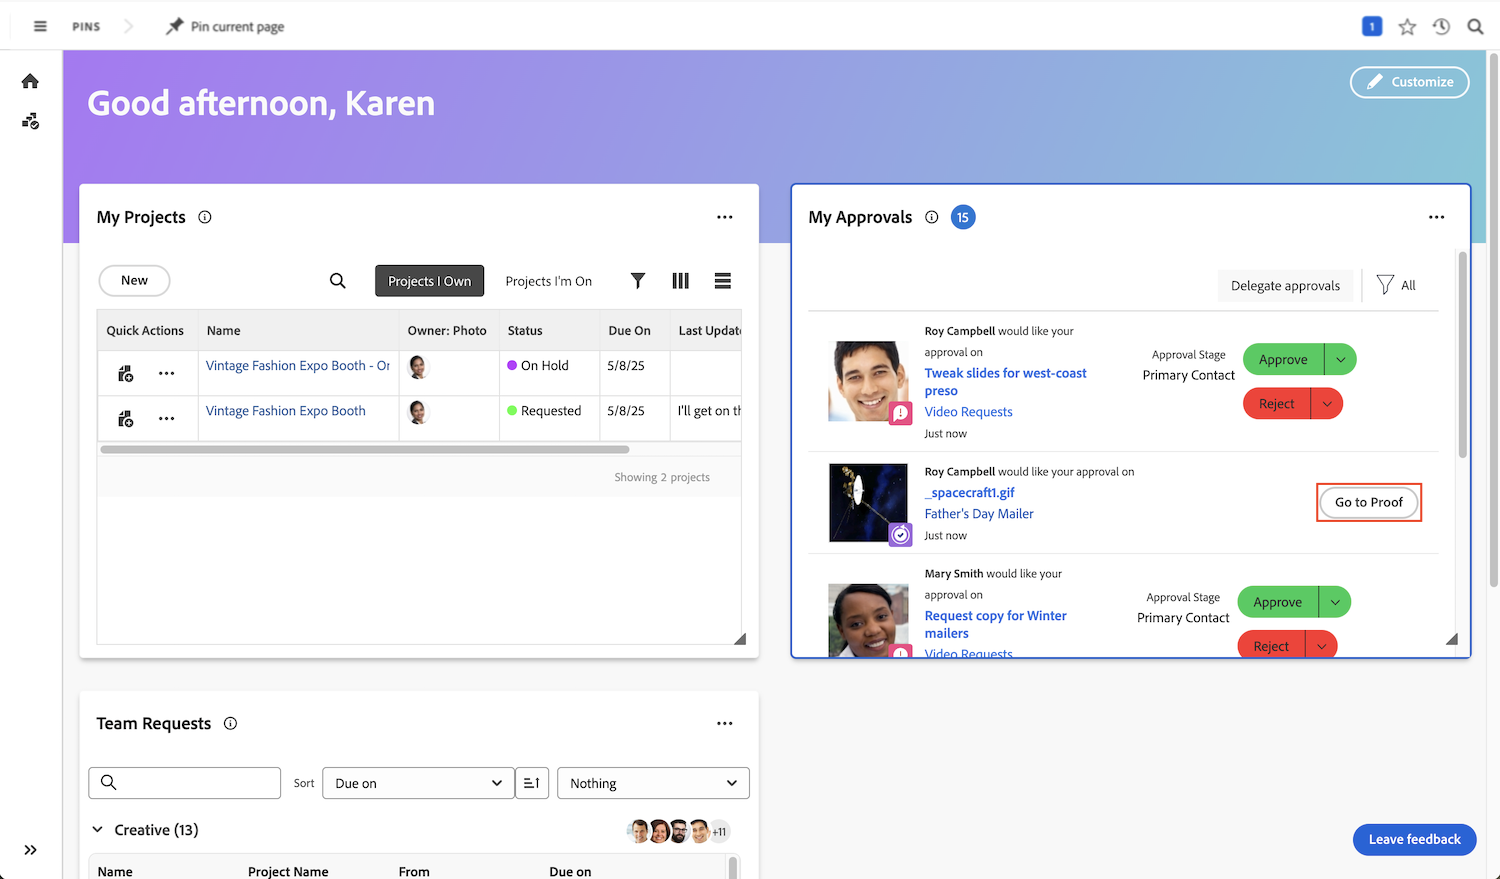
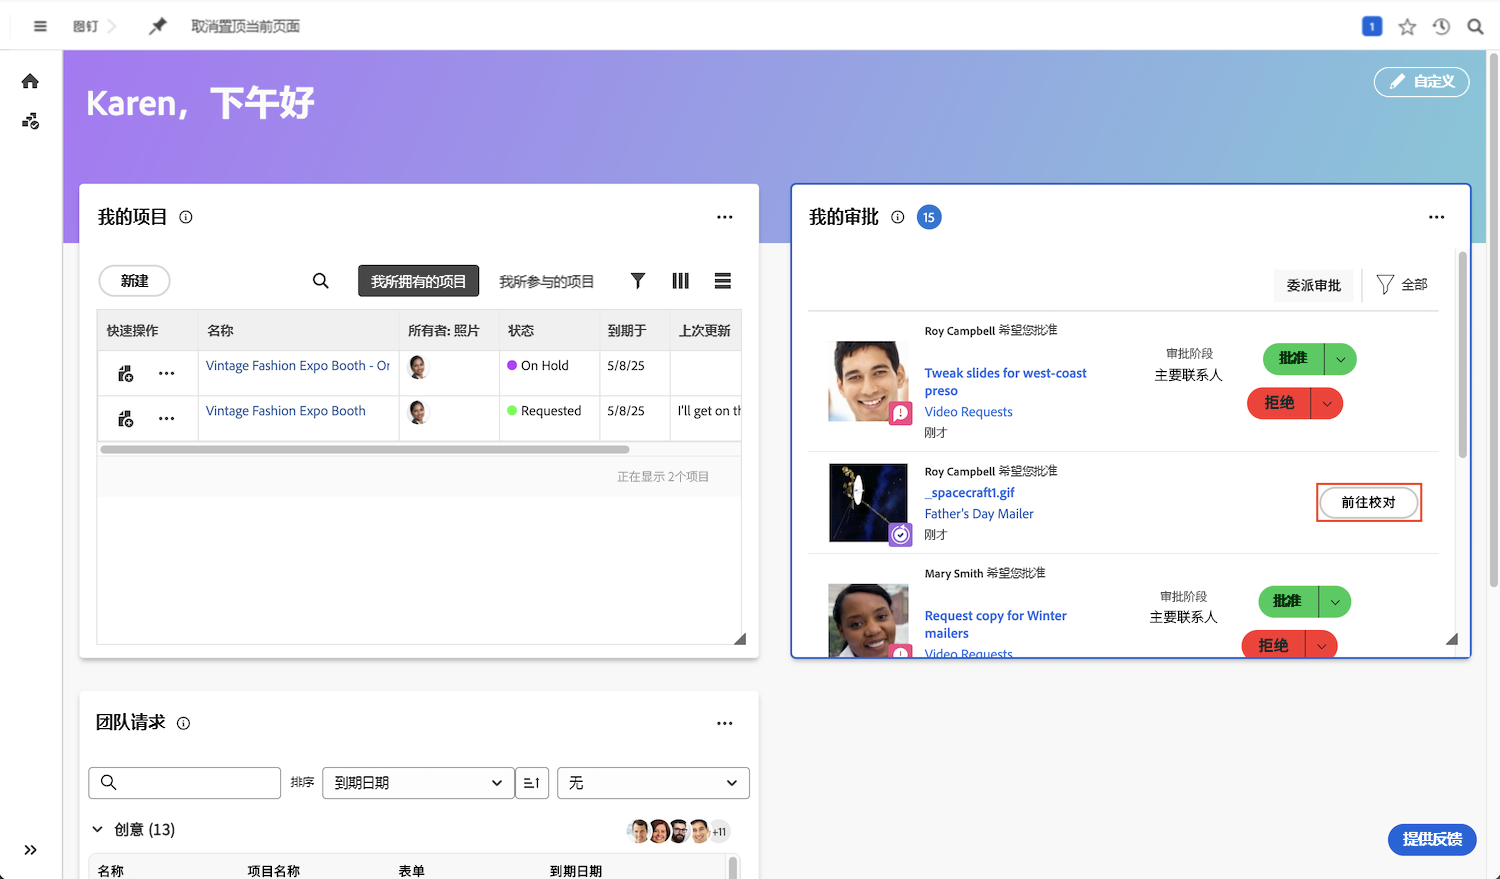
Updated by task 'AUTO_HANDOFF_1740431768113'  Changes for core/source commit https://git.corp.adobe.com/AdobeDocs/workfront-learn.en/commit/a64a8cd80e912f54fecae267fc94d3190d9fb85c

diff --git a/help/workfront-proof/review-and-approve-work/review-and-approve-a-proof.md b/help/workfront-proof/review-and-approve-work/review-and-approve-a-proof.md
@@ -12,9 +12,9 @@ jira: KT-8841
 exl-id: fd6e008c-a162-49fa-9f7e-ab7333165dad
 doc-type: video
 source-git-commit: 697957807d4ca95bb4e5ab79f24f5e31252585c3
-workflow-type: tm+mt
+workflow-type: ht
 source-wordcount: '701'
-ht-degree: 92%
+ht-degree: 100%
 
 ---
 
@@ -47,13 +47,13 @@ ht-degree: 92%
 
 ### 从 [!UICONTROL Home] 中打开验证
 
-如果您在[!DNL Workfront]中工作，并且被要求审批验证，您将在[!DNL Workfront] [!UICONTROL Home]的[!UICONTROL My Approvals]构件中找到分配。
+如果您使用 [!DNL Workfront]，并被要求审批验证，您会在 [!DNL Workfront] [!UICONTROL Home] 的 [!UICONTROL My Approvals] 中找到一项任务。
 
-![[!DNL Workfront] [!UICONTROL Home].](assets/open-proof-from-home.png)中的[!UICONTROL My Approvals]小部件的图像
+![[!UICONTROL My Approvals] 小组件的图像，位于 [!DNL Workfront] [!UICONTROL Home]。](assets/open-proof-from-home.png)
 
-值得注意的是，只有当分配您审批验证时，它才会显示在 [!DNL Workfront][!UICONTROL Home] 中。如果您刚刚被要求仅查看校样，它不会在[!DNL Workfront] [!UICONTROL Home]中显示。
+值得注意的是，只有当分配您审批验证时，它才会显示在 [!DNL Workfront][!UICONTROL Home] 中。如果您只是被要求审批验证，它不会显示在 [!DNL Workfront] [!UICONTROL Home]。
 
-单击[!UICONTROL Go to Proof]链接以将其打开到验证查看器中。
+单击 [!UICONTROL Go to Proof] 链接，将其在验证查看器中打开。
 
 根据您组织的验证和项目工作流，您可能会在 [!DNL Workfront] [!UICONTROL Home] 中看到任务分配，而不是验证审批请求。在这种情况下，您会从任务本身的 [!UICONTROL Documents] 部分打开验证（请参阅下面的说明）。
 

diff --git a/help/portfolios-and-programs/prioritize-and-manage-work-with-portfolios.md b/help/portfolios-and-programs/prioritize-and-manage-work-with-portfolios.md
@@ -1,6 +1,6 @@
 ---
-title: 使用 [!UICONTROL Portfolio Optimizer] 确定工作的优先顺序并对其进行管理
-description: 了解如何使用[!UICONTROL Portfolio Optimizer]比较项目组合中的项目并确定其优先级。
+title: 使用 [!UICONTROL Portfolio Optimizer] 确定工作的优先级并对其进行管理
+description: 了解如何使用 [!UICONTROL Portfolio Optimizer] 对项目组合中的项目进行比较和优先排序。
 activity: use
 team: Technical Marketing
 feature: Strategic Planning
@@ -13,19 +13,19 @@ role: User
 level: Intermediate
 exl-id: b8b91ae8-f0e1-4cab-bf2c-6b8ca9746ea3
 source-git-commit: adb11deb325b2537dabeb80461f8c9ecd059e003
-workflow-type: tm+mt
+workflow-type: ht
 source-wordcount: '65'
-ht-degree: 47%
+ht-degree: 100%
 
 ---
 
-# 使用 [!UICONTROL Portfolio Optimizer] 确定工作的优先顺序并对其进行管理
+# 使用 [!UICONTROL Portfolio Optimizer] 确定工作的优先级并对其进行管理
 
-在本视频中，您将了解到如何：
+在本视频中，您将学习如何：
 
-* 提交业务案例以供审批和优先处理
-* 使用[!UICONTROL Portfolio Optimizer]优化优先顺序
-* 设置和查看项目中的项目组合优先级字段
+* 提交业务案例以供审批并确定优先级
+* 使用 [!UICONTROL Portfolio Optimizer] 优化优先级
+* 设置并查看项目中的项目组合优先级字段
 
 >[!VIDEO](https://video.tv.adobe.com/v/3446275/?quality=12&learn=on&enablevpops)
 
